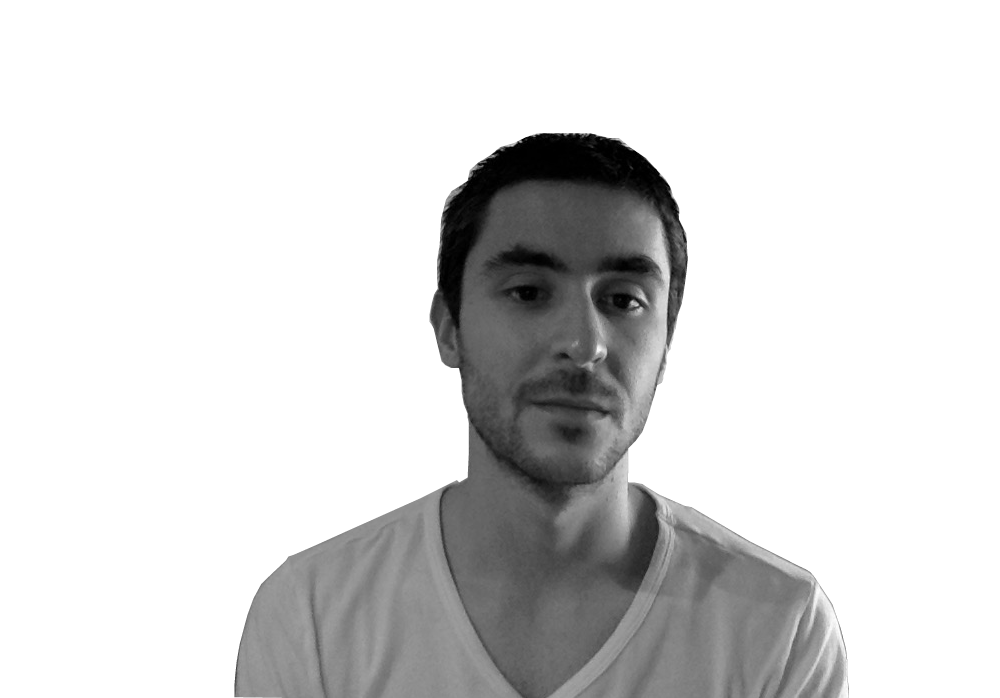
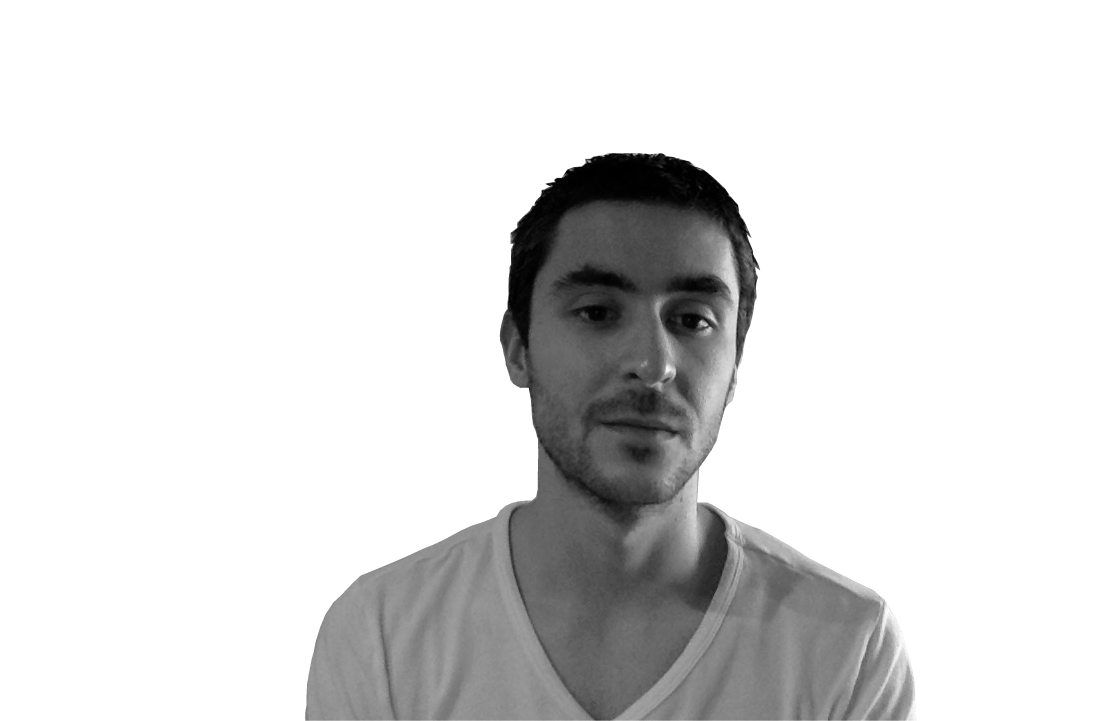
review bio image

diff --git a/index.html b/index.html
@@ -56,8 +56,8 @@
     </div>
   </div>
   <div class="content">
-    <div class="bio" id="bio">
-      <img alt="Rémi Michel - Développeur web Grenoble" src="assets/img/bio-image-colored.png" />
+    <div class="bio d-flex flex-wrap" id="bio">
+      <img alt="Rémi Michel - Développeur web Grenoble" src="assets/img/bio-image.png" />
       <p>Je suis <b class="text-blue">développeur</b> et <b class="text-blue">formateur</b> web sur la région de Grenoble.
         Diplômé d'un Master MIAGE, je me suis très vite orienté
         vers le développement frontend et particulièrement vers les technologies JavaScript et CSS.

diff --git a/scss/_bio.scss b/scss/_bio.scss
@@ -1,10 +1,10 @@
 .bio {
   background-color: #e6e9e9;
-  height: 400px;
-  display: flex;
+  min-height: 400px;
 
   img {
-    height: 100%;
+    max-height: 400px;
+    max-width: 100%;
   }
 }
 
